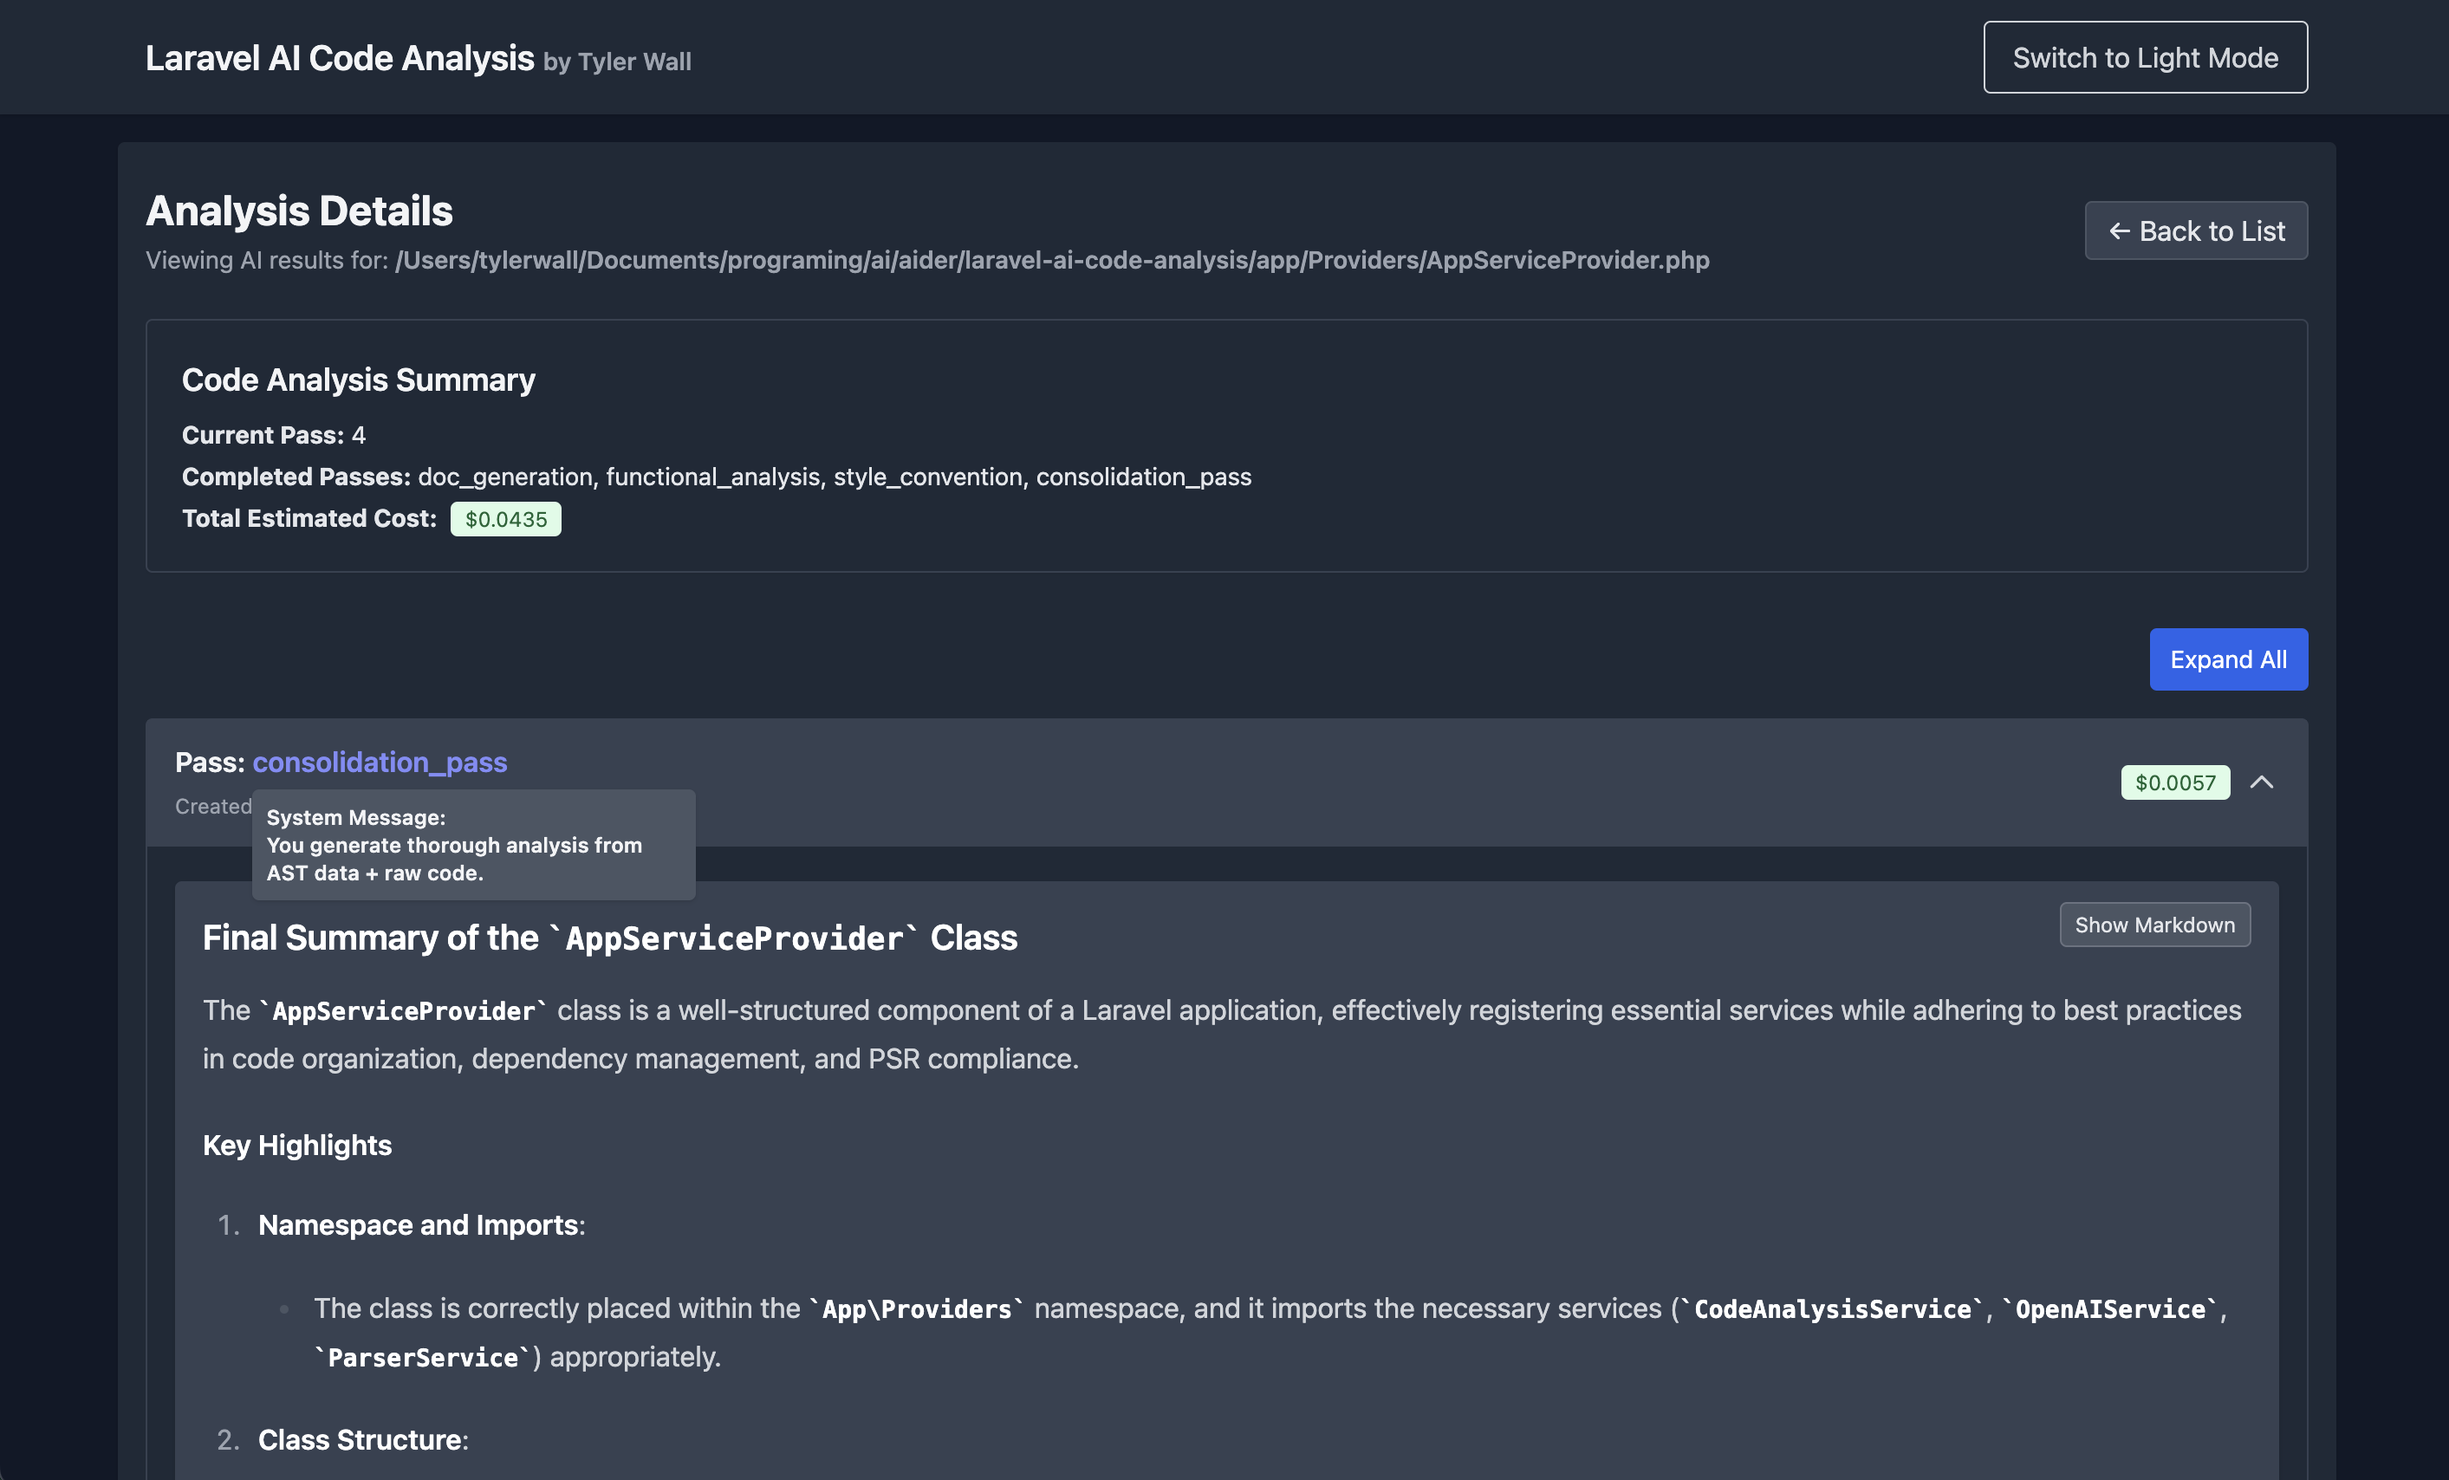
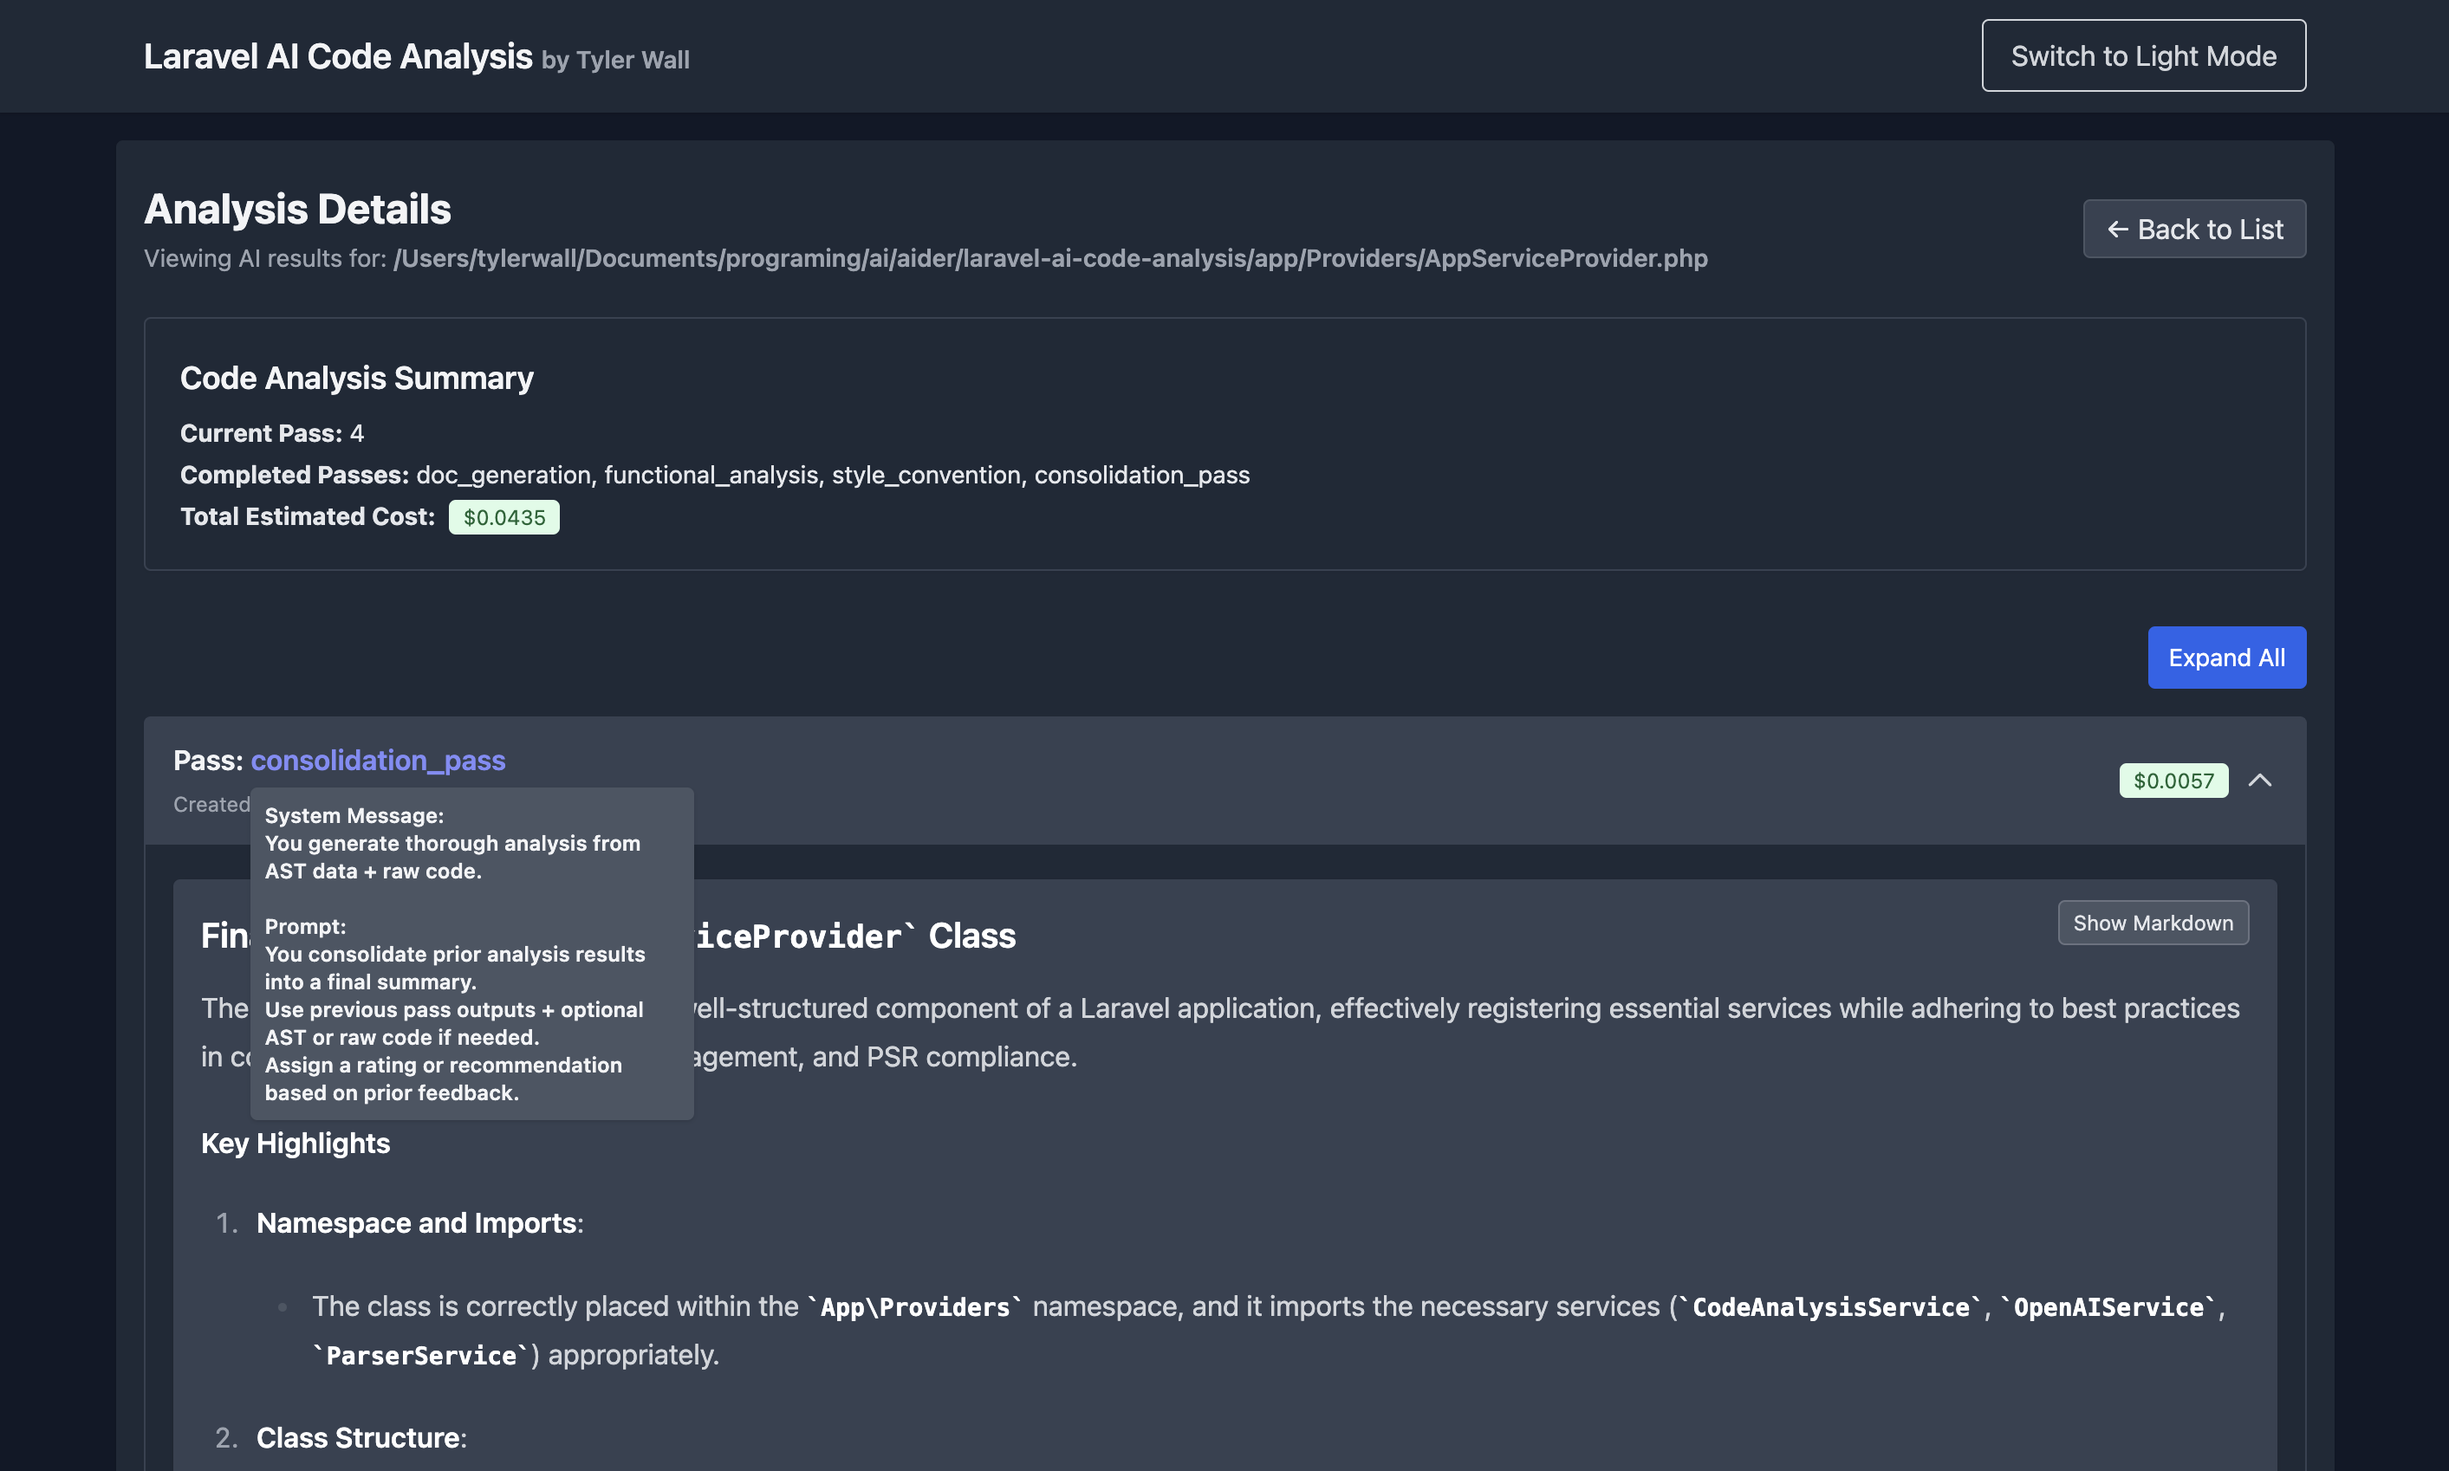
fix: Update prompt fallback logic in analysis view template

diff --git a/resources/views/analysis/show.blade.php b/resources/views/analysis/show.blade.php
@@ -93,7 +93,13 @@
                         $configuredTip = '(No configured prompt found)';
                     } else {
                         $sysMsg  = $opConfig['system_message'] ?? '(No system_message)';
-                        $prompt  = $opConfig['prompt'] ?? '(No prompt)';
+                        $prompt  = !empty($opConfig['prompt']) 
+                            ? $opConfig['prompt'] 
+                            : (
+                                !empty($mpConfig['prompt']) 
+                                    ? $mpConfig['prompt'] 
+                                    : '(No prompt)'
+                            );
                         $configuredTip = "System Message:\n{$sysMsg}";
                         if (!empty($prompt)) {
                             $configuredTip .= "\n\nPrompt:\n{$prompt}";
